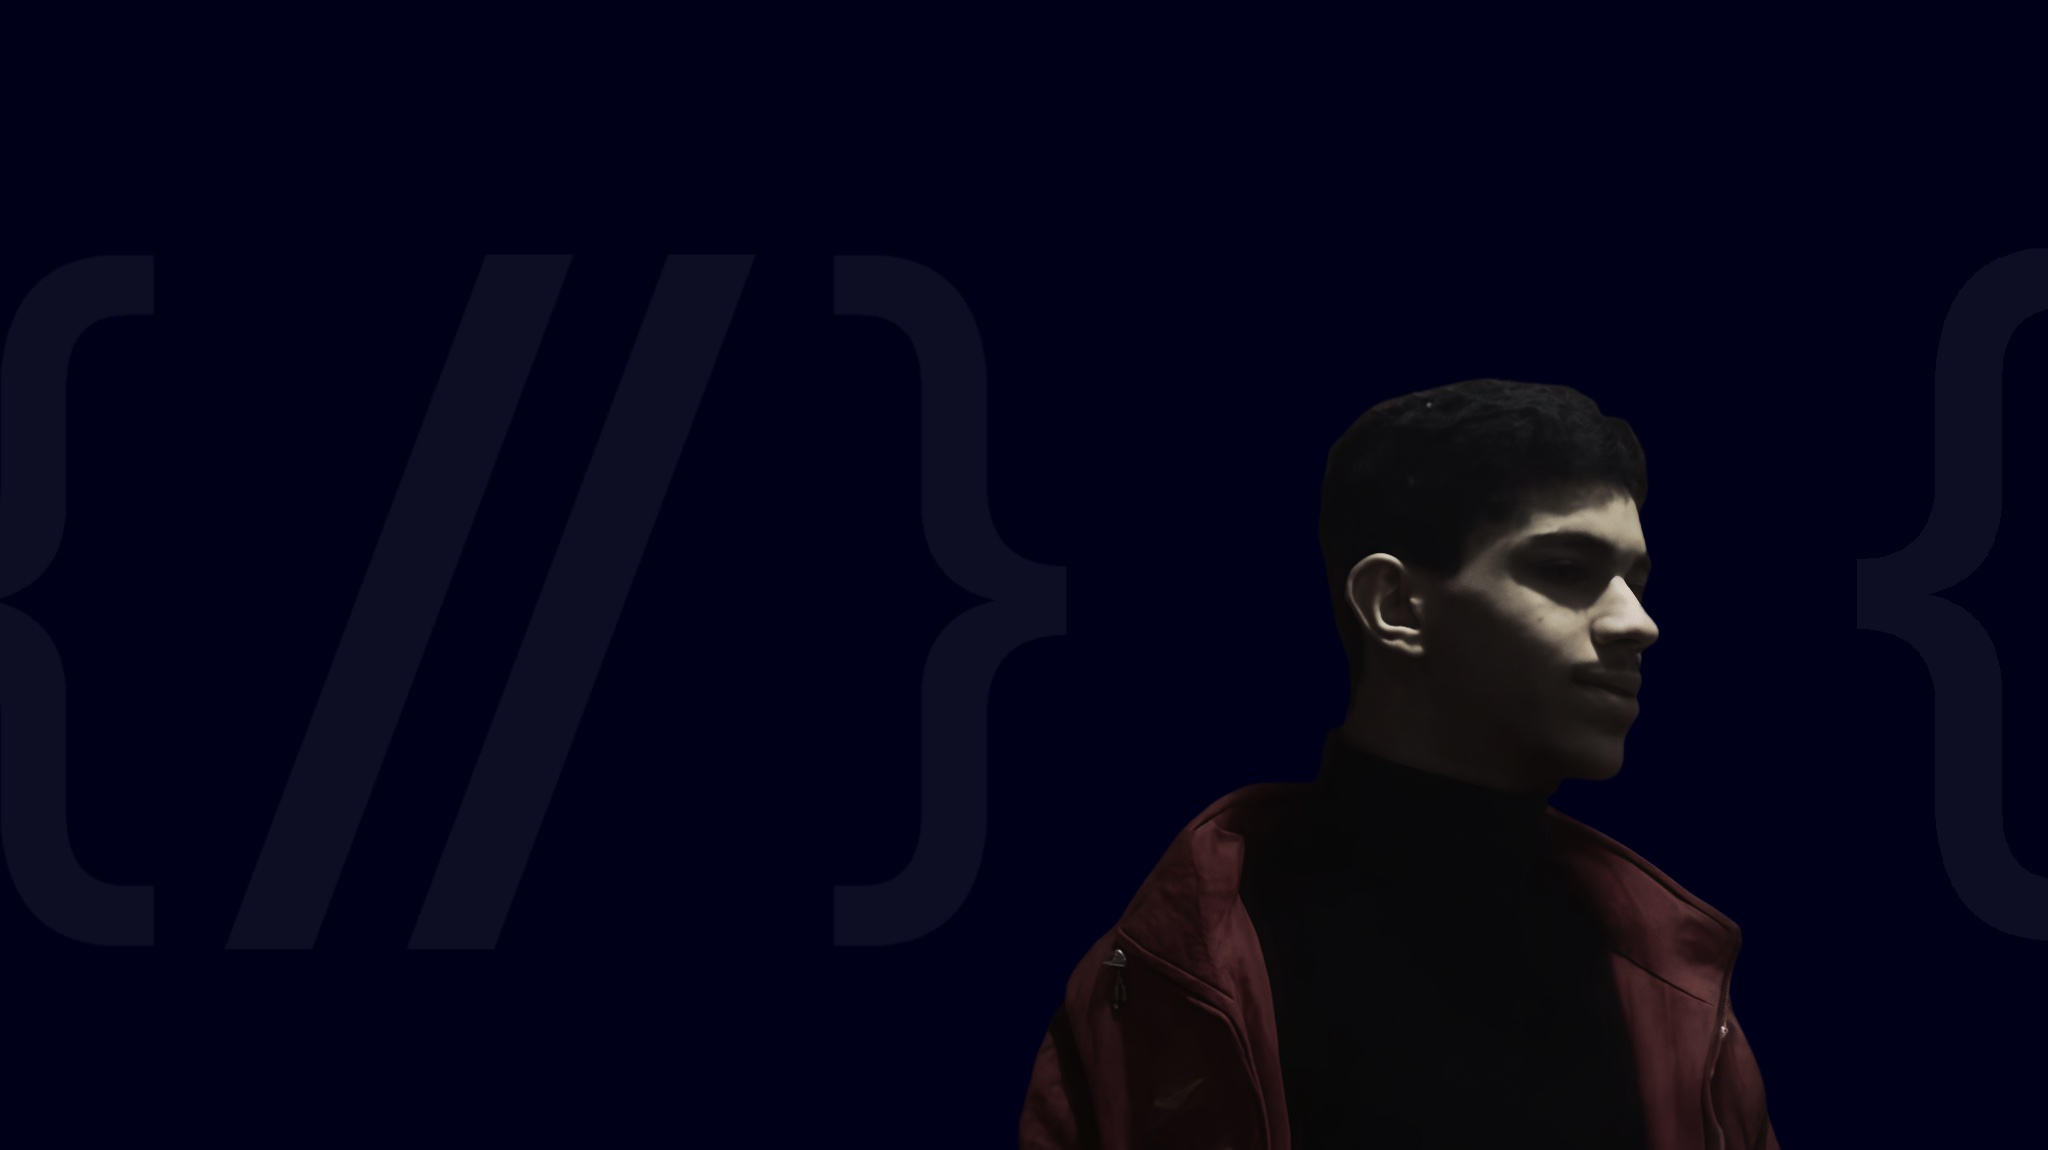
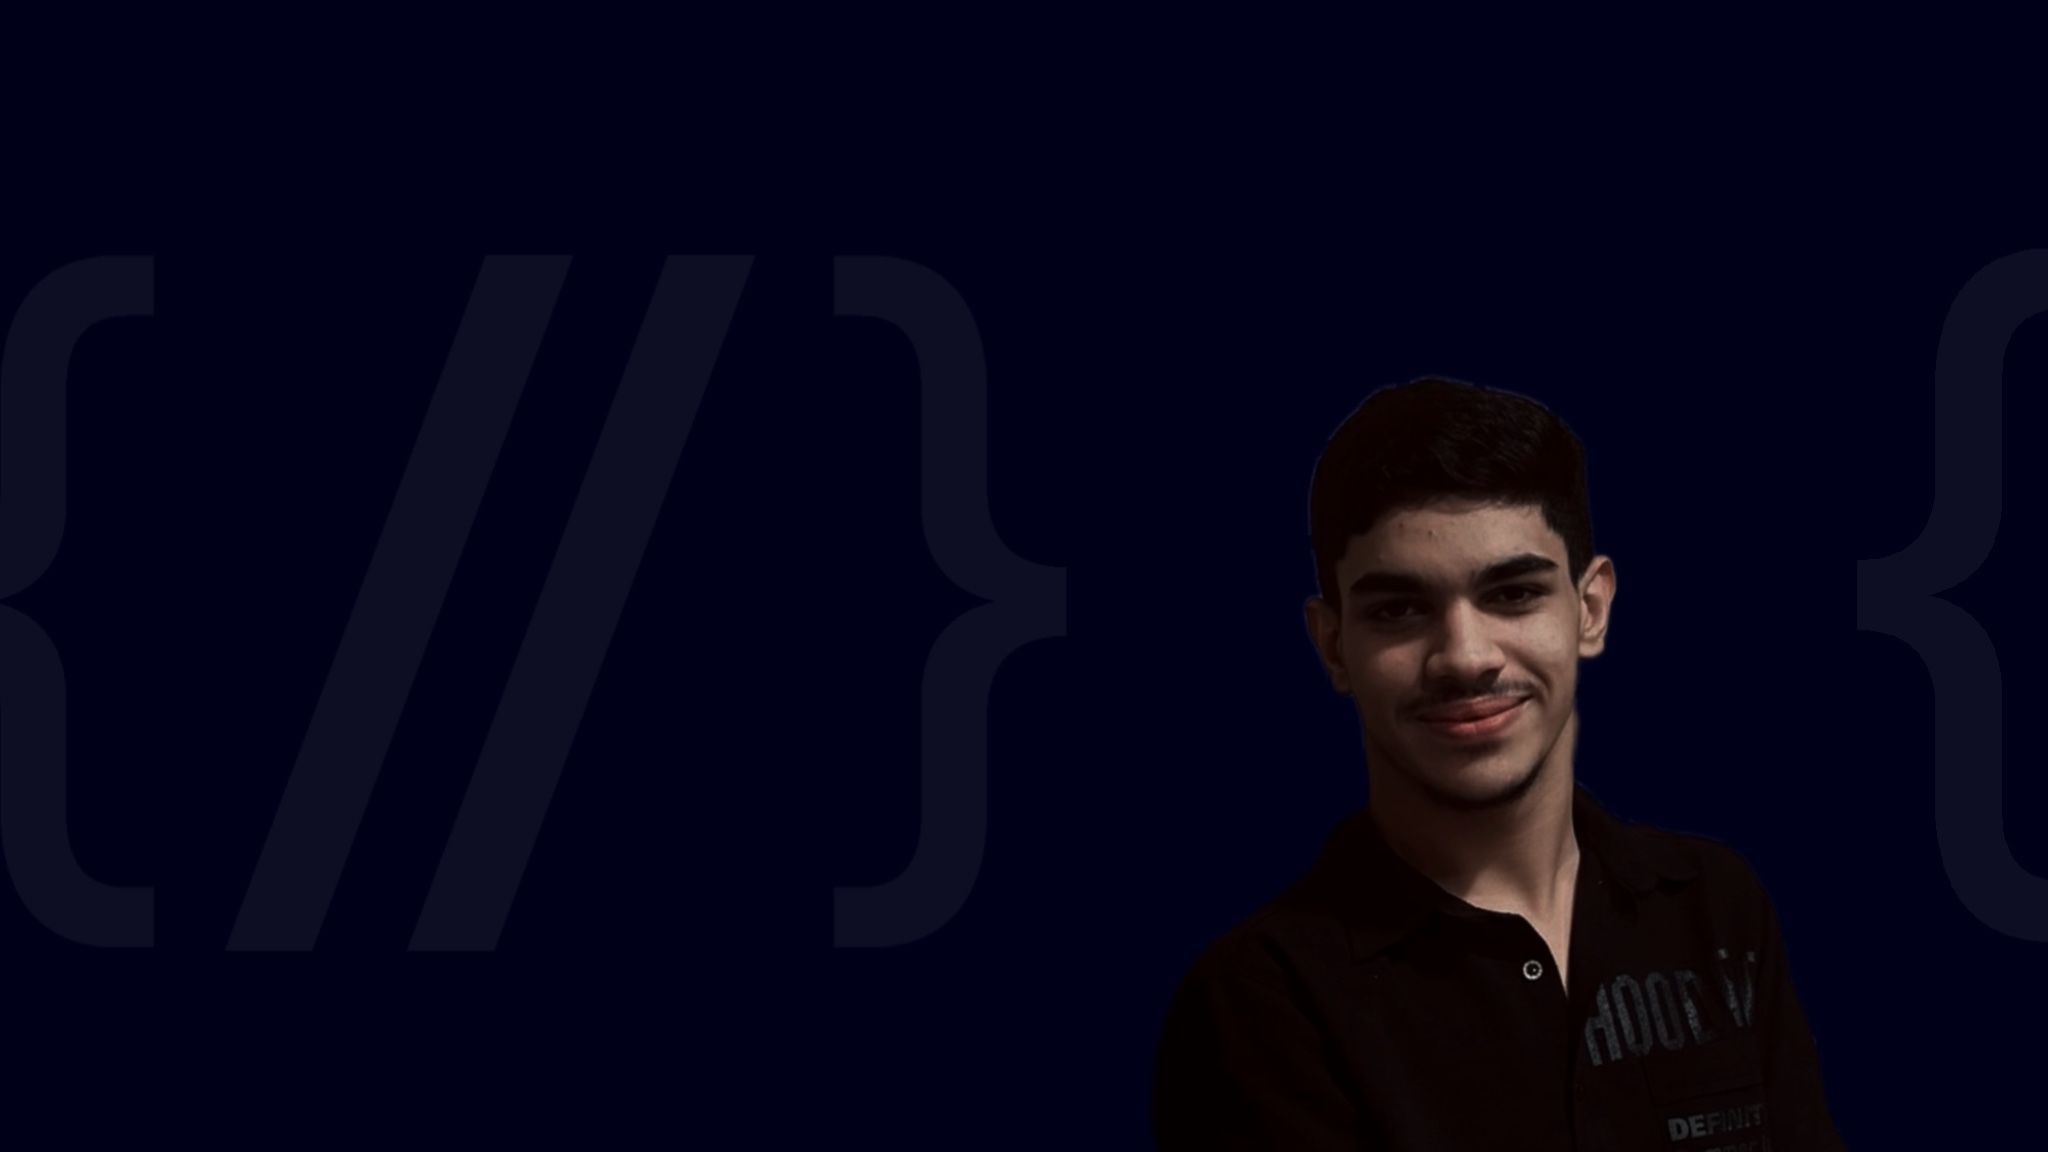
fix(images): change my personal image

Changed region(s): [[0.625, 0.3348, 0.875, 1.0], [0.5, 0.6696, 0.625, 1.0], [0.625, 0.9739, 0.6562, 1.0]]

diff --git a/style.css b/style.css
@@ -6,7 +6,7 @@
 :root{
     --main-color: #3a6cf4;
     --main-bg: url(tools/main_bg.JPEG);
-    --mid-bg: url(tools/mid_bg.jpg);
+    --mid-bg: url(tools/mid_bg.JPEG);
     --phone-bg: url(tools/phone_bg.JPEG);
 }
 
